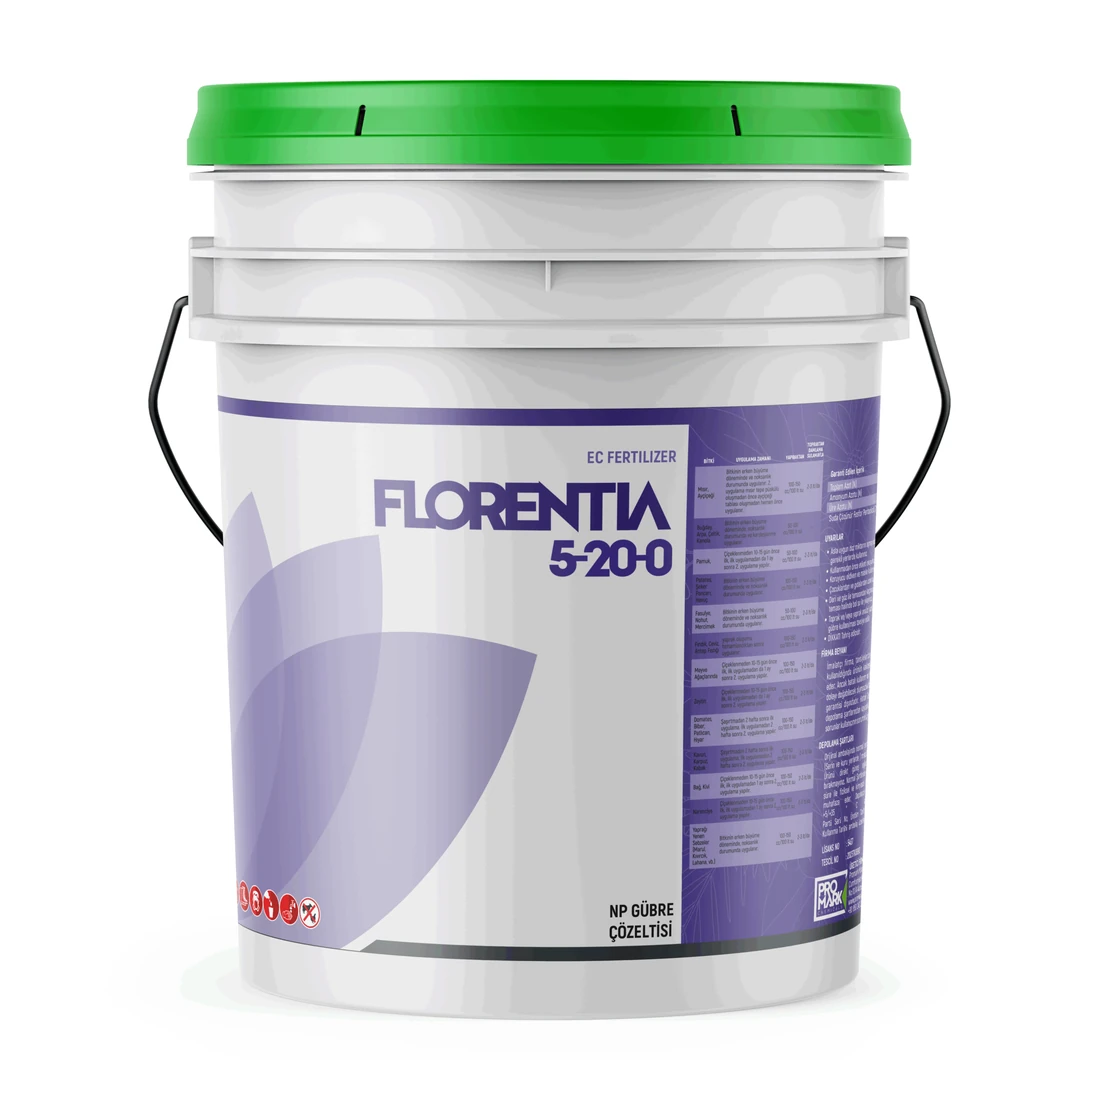
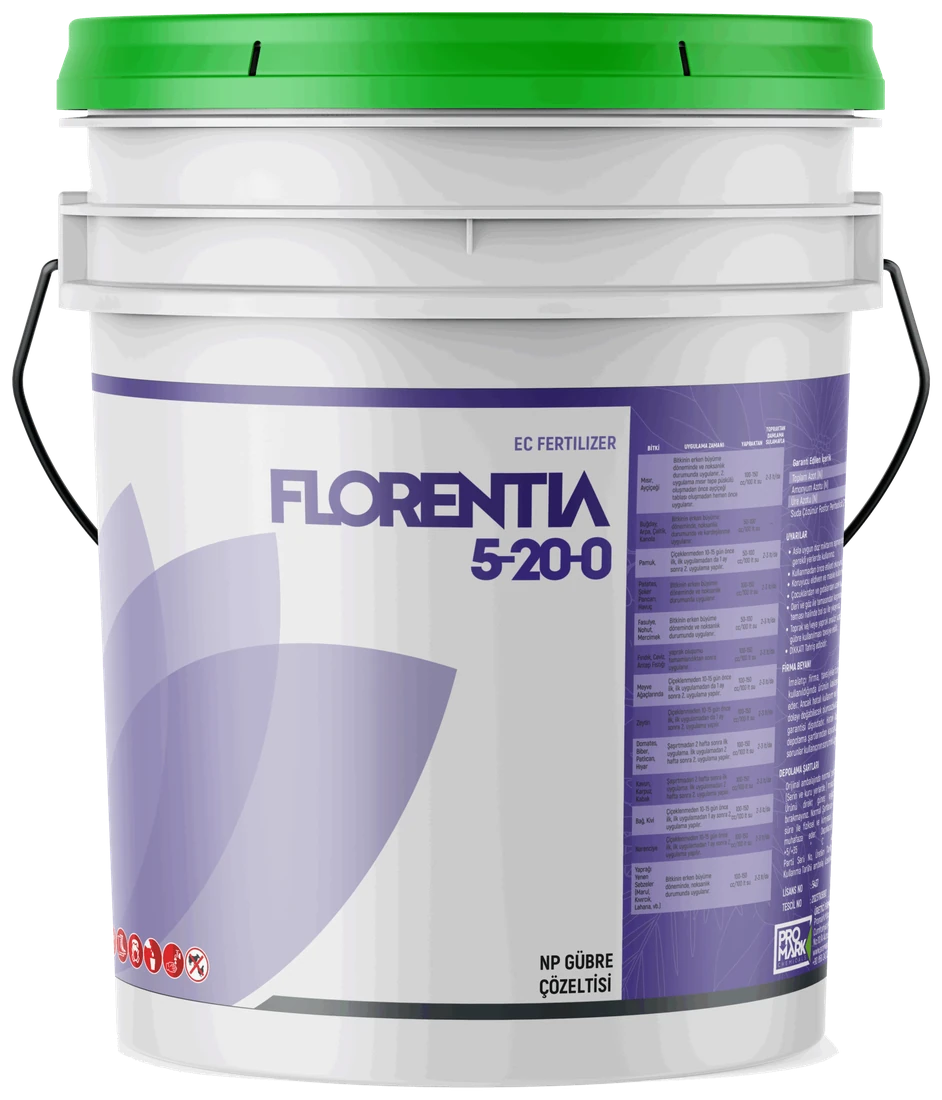
Kova görsellerinin beyaz fonunu kaldır
FLORENTIA, POTATRO ve STATERA render'ları düz beyaz fon ve hafif bir zemin
gölgesiyle geliyordu; diğer 19 paket görseli zaten saydamdı.

Fonu d = 255 - min(R,G,B) alanında kenardan başlayan bir taşma doldurmasıyla
kaldırdım. Ölçüm: gölge en fazla d=11, kovanın siluetindeki en açık piksel
d=27, yani d<=14 eşiği hem fonu hem gölgeyi yutup ürüne girmeden duruyor.
Beyaz plastiği koruyan şey eşik değil bağlantısallık — gövdedeki parlamalar
da beyaz ama kenardan erişilemiyor. Sapın içindeki iki kapalı boşluk ayrıca
bulunup saydamlaştırıldı.

Doldurma bilerek bir piksel açgözlü; siluetin en soluk kenar pikselini de
alıyor. O dikiş beyaz fon üstünde geçerli olan C = a*F + (1-a)*255
bağıntısından a = d / d_iç ile geri kuruldu, böylece render'ın kendi kenar
yumuşatması korundu. Doğrulama: üç görselde de d>=20 olup alfası sıfırlanan
tek bir piksel yok.

Görseller diğerleriyle aynı boru hattından geçirildi: içeriğe göre kırpma,
kenar renginin dışa taşınması, 1100 px'e LANCZOS küçültme, WebP q90.

diff --git a/README.md b/README.md
@@ -81,6 +81,21 @@ kaftarim.com’un WordPress REST API’si, Facebook sayfası ve resmî kayıtlar
 ticaret sicili). Doğrulanamayan bilgiler — sertifikalar, ihracat yapılan ülkeler,
 çalışan sayısı, fuar katılımı — bilinçli olarak siteye konmadı.
 
+### Ürün görselleri
+
+22 paket görselinin tamamı üreticinin 2560 px'lik orijinal render'larından
+hazırlandı ve saydam zeminli WebP olarak `public/products/` altında duruyor.
+Üç kova görseli (FLORENTIA, POTATRO, STATERA) kaynakta düz beyaz fon ve hafif
+bir zemin gölgesiyle geliyordu. Fon şöyle kaldırıldı: `d = 255 - min(R,G,B)`
+alanında gölge en fazla 11'e çıkıyor, kovanın kendi siluetinin en açık pikseli
+ise 27; bu yüzden kenardan başlayan ve yalnızca `d <= 14` piksellerde ilerleyen
+bir taşma doldurması hem fonu hem gölgeyi yutuyor, ürüne girmeden duruyor.
+Beyaz plastiği koruyan şey bağlantısallık: gövdenin ortasındaki parlama da
+beyaz, ama kenardan erişilebilir değil. Sapın içinde kalan iki kapalı boşluk
+ayrıca tespit edilip saydamlaştırıldı. Silüetteki yumuşak geçiş
+`a = d / d_iç` ile geri kazanıldı, yani render'ın kendi kenar yumuşatması
+korundu — hiçbir piksel sertçe kesilmedi.
+
 ### Ürün metinlerinde yapılan düzenlemeler
 
 Ürün açıklamaları firmanın kendi kataloğundan ve etiketlerinden alındı. İki tür
